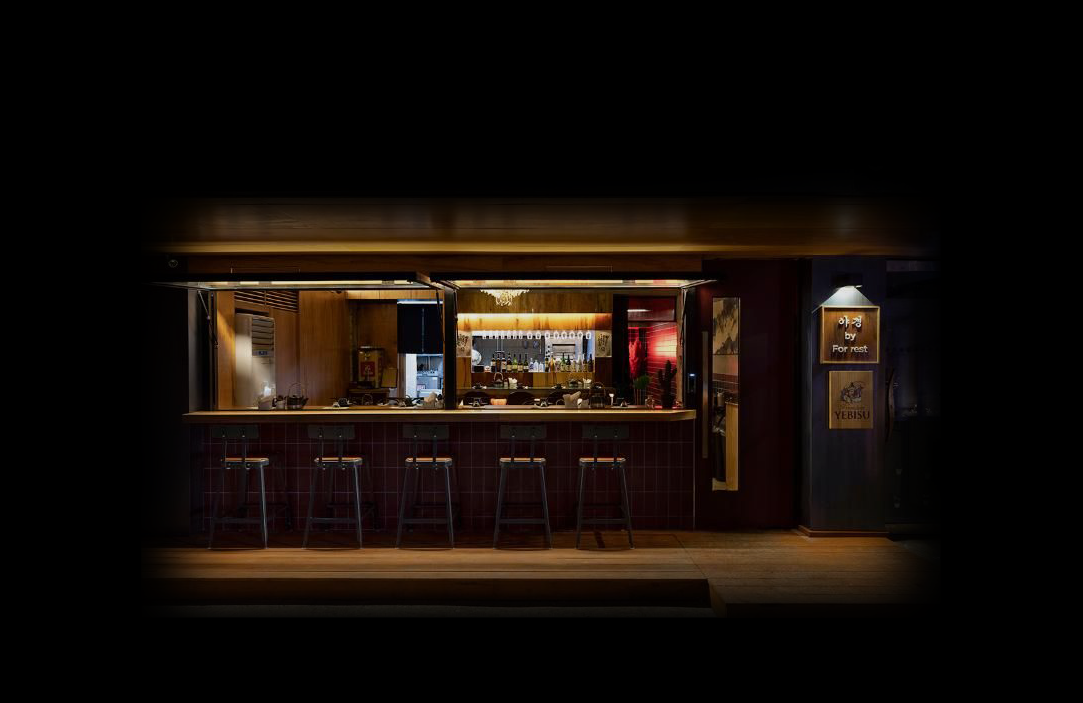
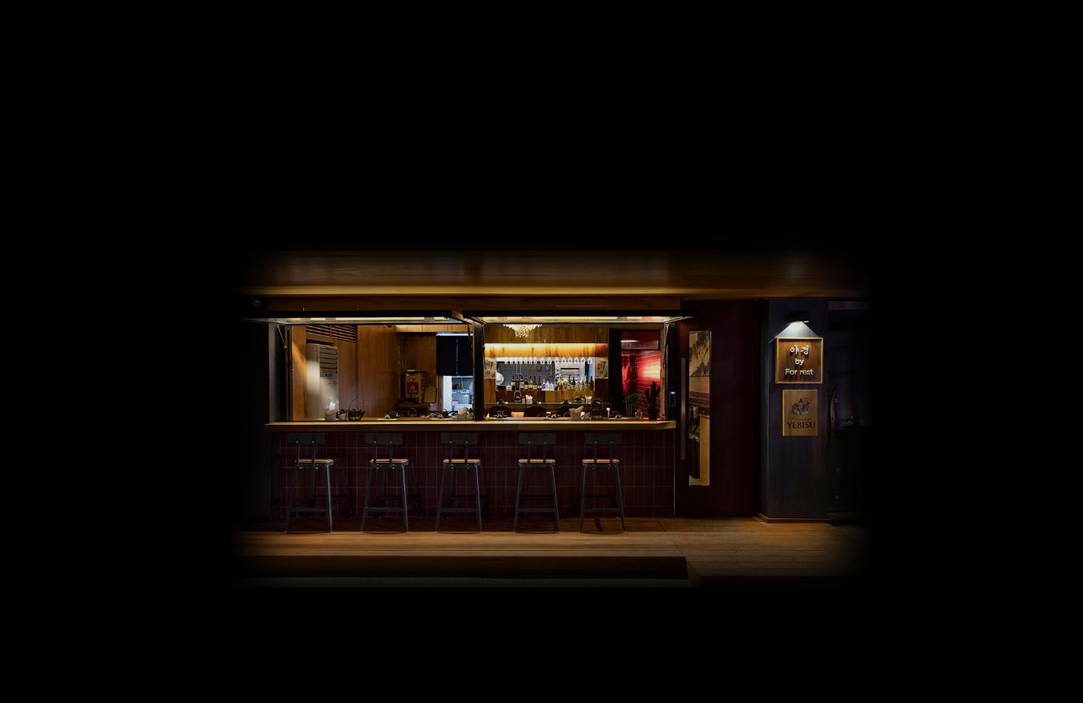
Fixed : 태그5개 확인모달 버그수정 및 맥주테마 변경

Changed region(s): [[0.1524, 0.2688, 0.8532, 0.8663]]

diff --git a/front-client/src/components/Common/PublicModal.tsx b/front-client/src/components/Common/PublicModal.tsx
@@ -123,7 +123,9 @@ const PublicModal = ({ data, socket, fx }: { data: any; socket?: any, fx?: Funct
   const BgCloseModal = (event: React.MouseEvent<HTMLDivElement>) => {
     if (event.target === bgDiv.current) {
       dispatch(showPublicModal(false));
-      fx!();
+      if(fx) {
+        fx!();
+      }
     }
   };
 
@@ -131,7 +133,9 @@ const PublicModal = ({ data, socket, fx }: { data: any; socket?: any, fx?: Funct
   const onClickConfirm = () => {
     switch (data.type) {
       case "tag":
-        fx!();
+        if(fx) {
+          fx!();
+        }
         break;
       case "addTime":
         handlePochaExtension();

diff --git a/front-client/tailwind.config.js b/front-client/tailwind.config.js
@@ -15,6 +15,7 @@ module.exports = {
         "hof": "url('src/assets/theme/hof_theme.png')",
         "rain": "url('src/assets/theme/rain_theme.gif')",
         "china": "url('src/assets/theme/china_theme.png')",
+        "beer": "url('src/assets/theme/beer_theme.gif')",
       }
     },
   },

diff --git a/front-client/src/components/Common/UpdateRoomInfo.tsx b/front-client/src/components/Common/UpdateRoomInfo.tsx
@@ -75,7 +75,7 @@ const UpdateRoomInfo = ({
 
   // 태그 리스트
   const [choiceTagList, setChoiceTagList] = useState<string[]>([]);
-
+  console.log('태그리스트',choiceTagList);
   // 태그 선택 기능
   const onSelectTag = (
     tag: string,

diff --git a/front-client/src/components/StoryRoom/StoryRoom.tsx b/front-client/src/components/StoryRoom/StoryRoom.tsx
@@ -40,7 +40,7 @@ function StoryRoom(): JSX.Element {
           setUrlImg(`bg-pocha`);
           break
         case "T0B2":
-          setUrlImg(`bg-china`);
+          setUrlImg(`bg-beer`);
           break
       }
       setTimeout(() => {
